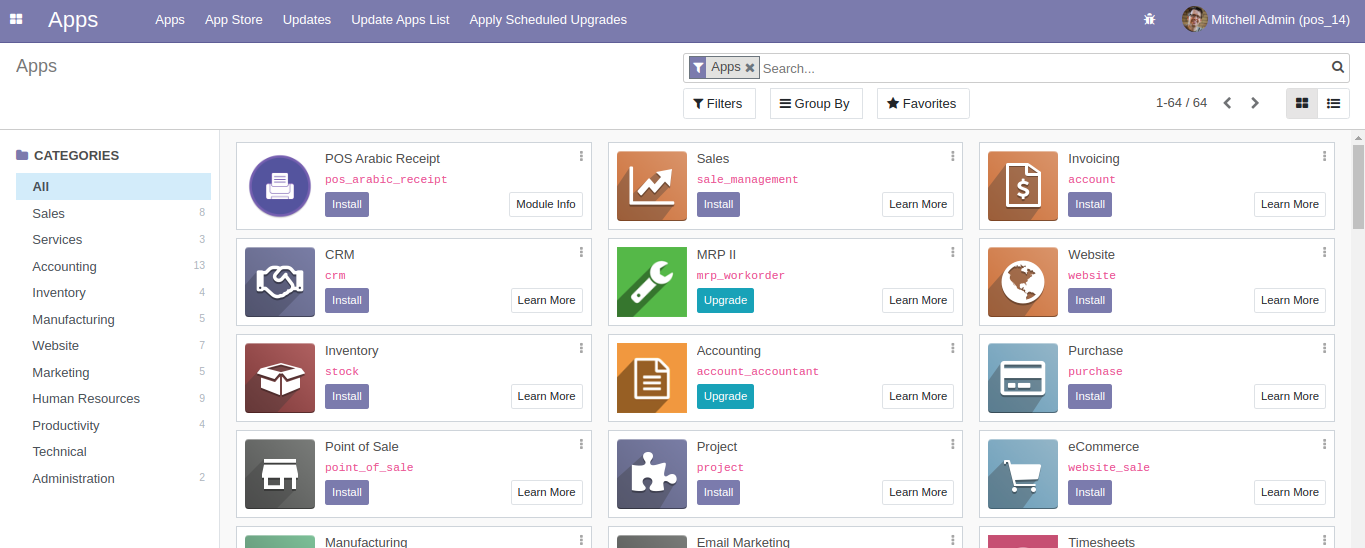
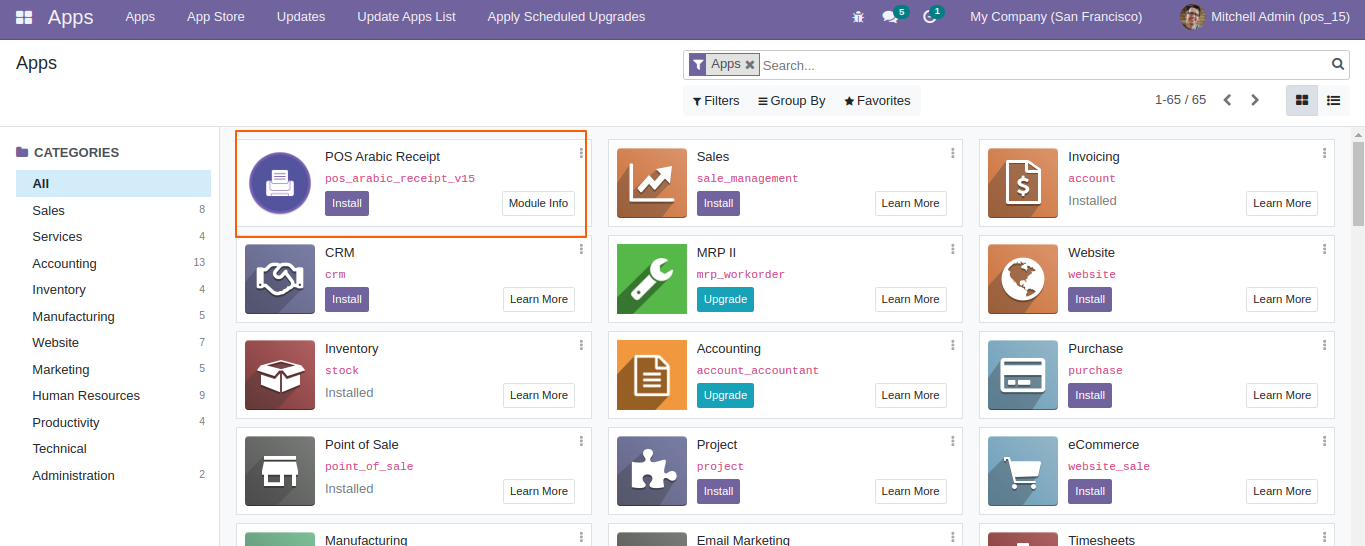
js added in manifest

diff --git a/pos_arabic_receipt_v15/static/src/js/models.js b/pos_arabic_receipt_v15/static/src/js/models.js
@@ -1,4 +1,4 @@
-odoo.define("pos_arabic_receipt_v14.models", function (require) {
+odoo.define("pos_arabic_receipt_v15.models", function (require) {
 "use strict";
 
 var models = require('point_of_sale.models');

diff --git a/pos_arabic_receipt_v15/__manifest__.py b/pos_arabic_receipt_v15/__manifest__.py
@@ -2,7 +2,7 @@
     'name': 'POS Arabic Receipt',
     'summary': 'POS arabic receipt as per the industrial Standard',
     'description': """POS arabic receipt as per the industrial Standard""",
-    "version": "14.1.1.1",
+    "version": "15.1.1.1",
     'sequence': 1,
     'email': 'ajmalc6705@gmail.com',
     'website': '',
@@ -10,15 +10,27 @@
     'author': 'Ajmal',
     'price': 35,
     'currency': 'EUR',
-    'license': 'OPL-1',
+    'license': 'LGPL-3',
     "live_test_url": "",
     'depends': ['point_of_sale'],
     'qweb': ['static/src/xml/templates.xml'],
-    'data': ['views/pos_receipt_template.xml',
-             'views/product_view.xml'
-             ],
+    'data': [
+        # 'views/pos_receipt_template.xml',
+        'views/product_view.xml'
+    ],
     'images': ['static/description/main_screenshot.png'],
     'demo': [],
+    #
+    'assets': {
+        'point_of_sale.assets': [
+            'pos_arabic_receipt_v15/static/src/js/models.js',
+        ],
+        'web.assets_qweb': [
+            'pos_arabic_receipt_v15/static/src/xml/templates.xml',
+        ],
+
+    },
+
     'installable': True,
     'auto_install': False,
     'application': True,
